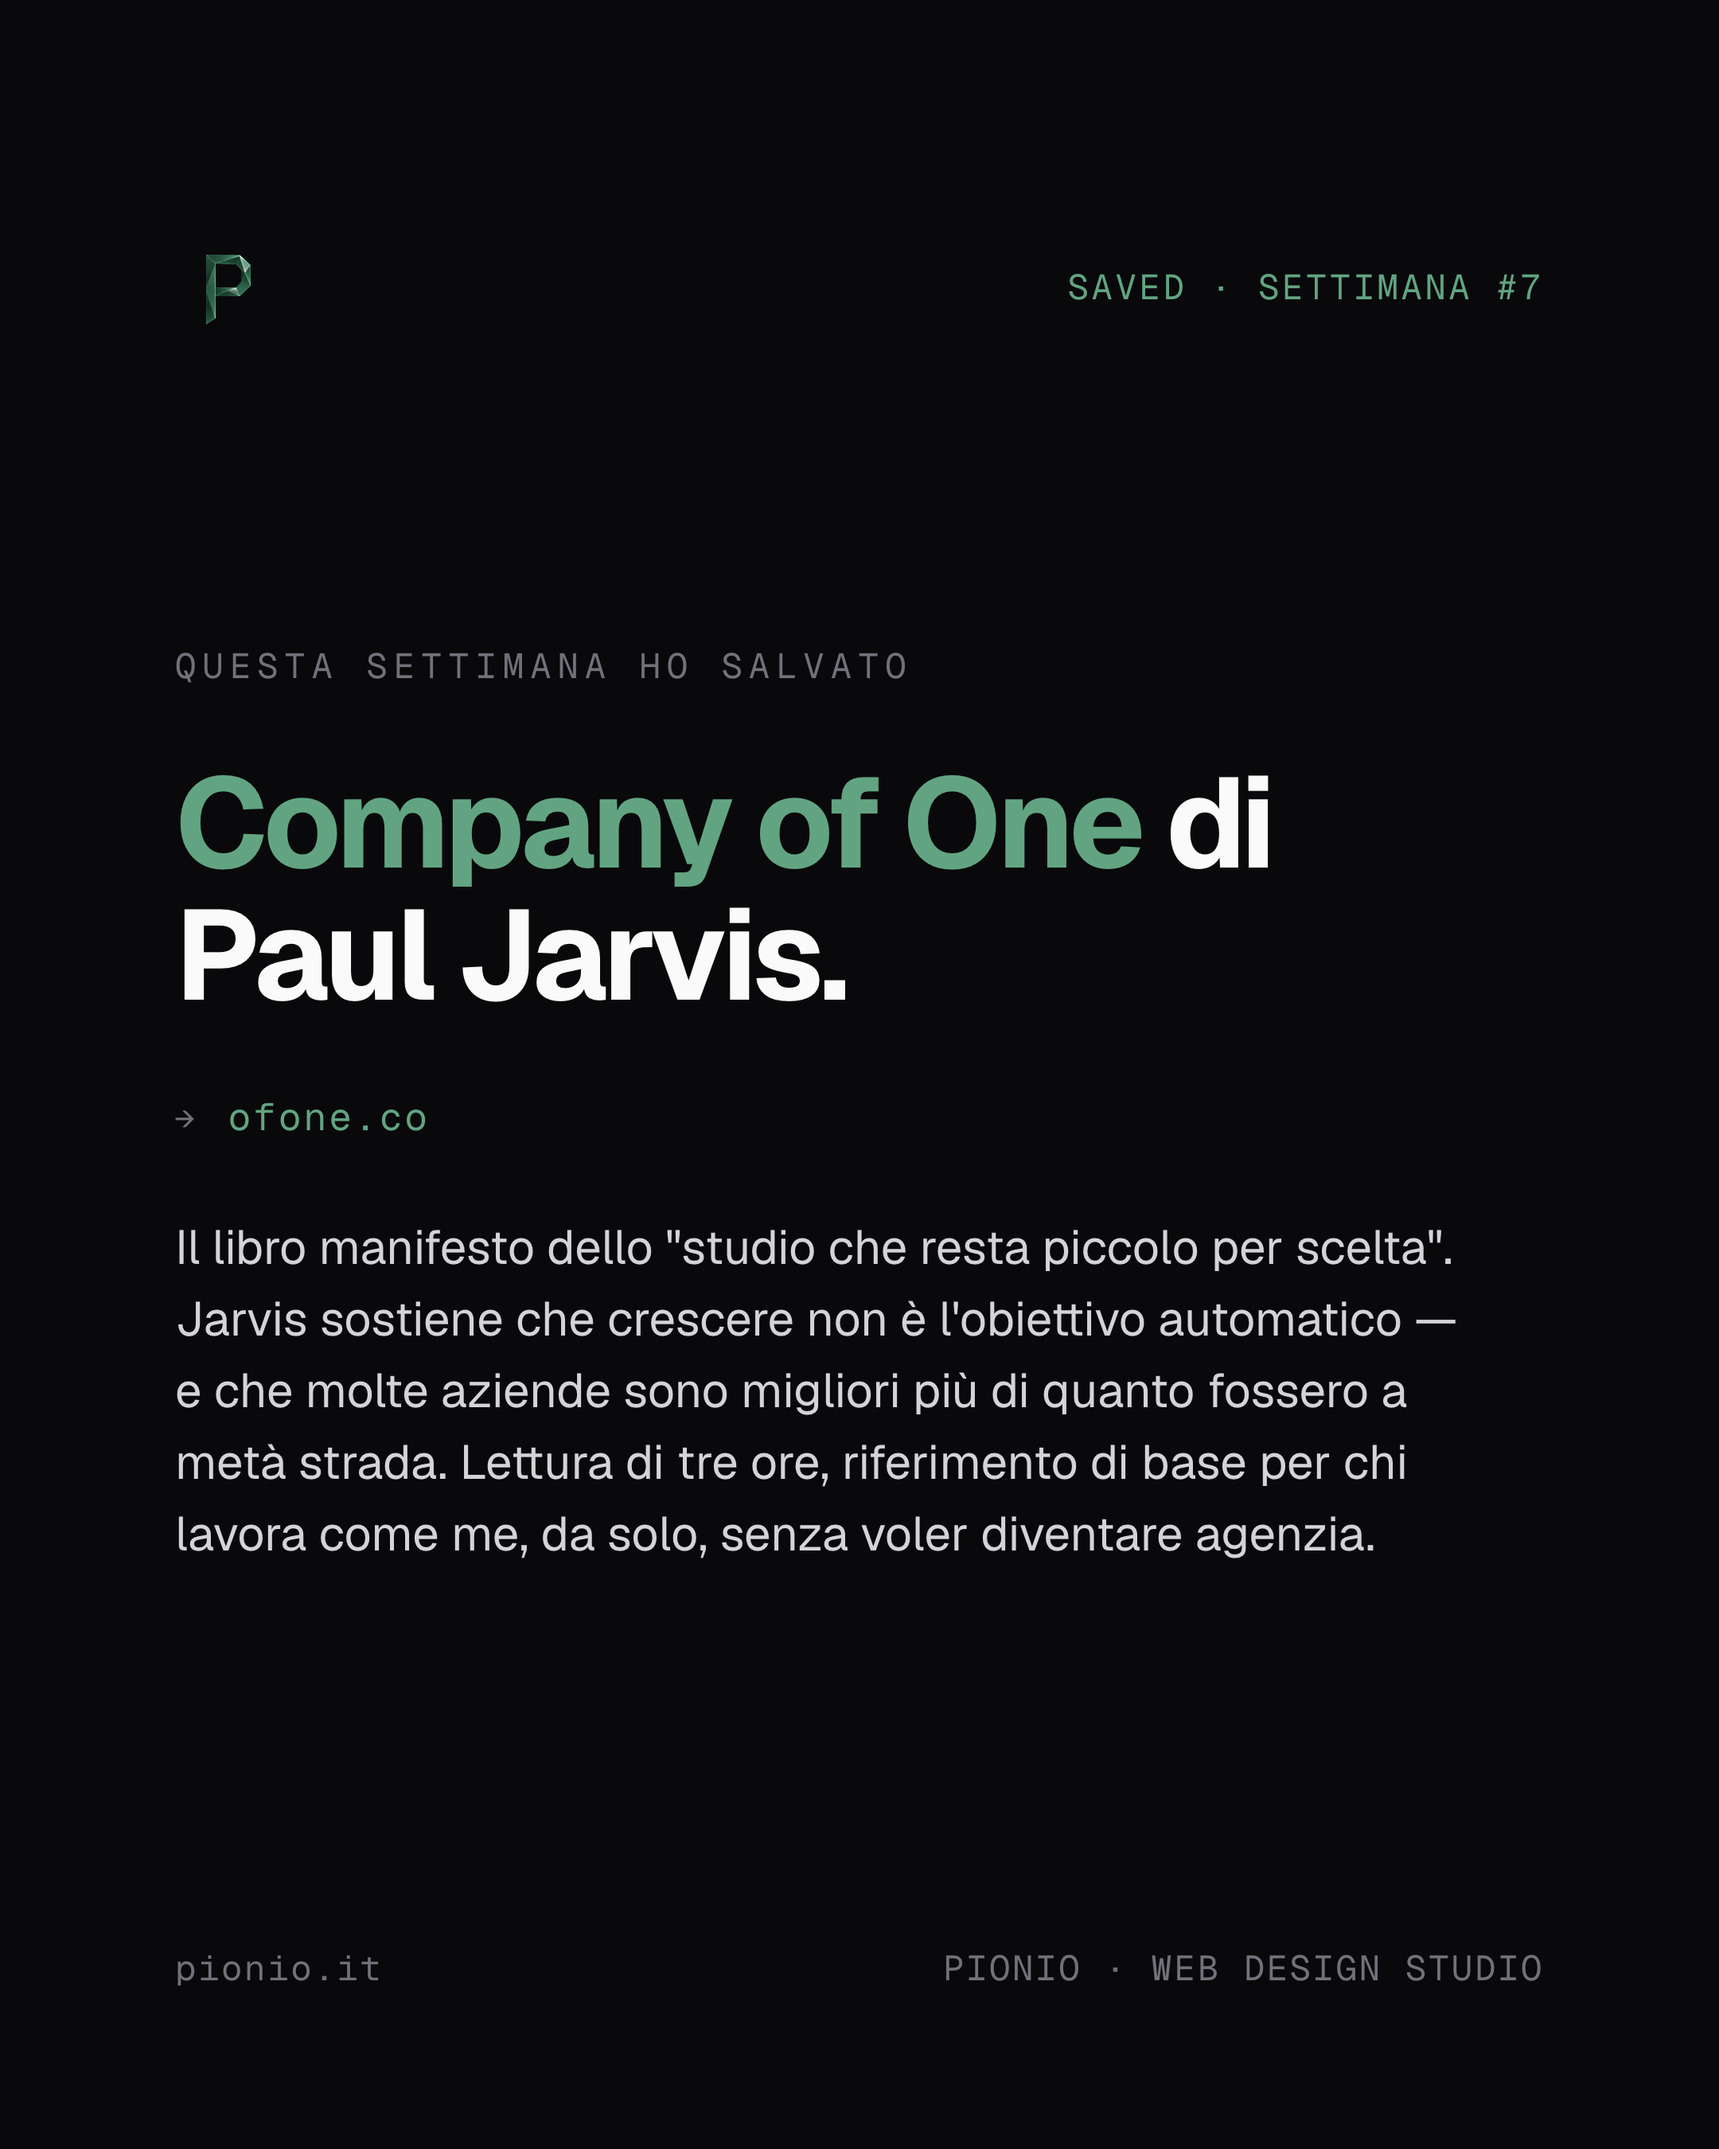
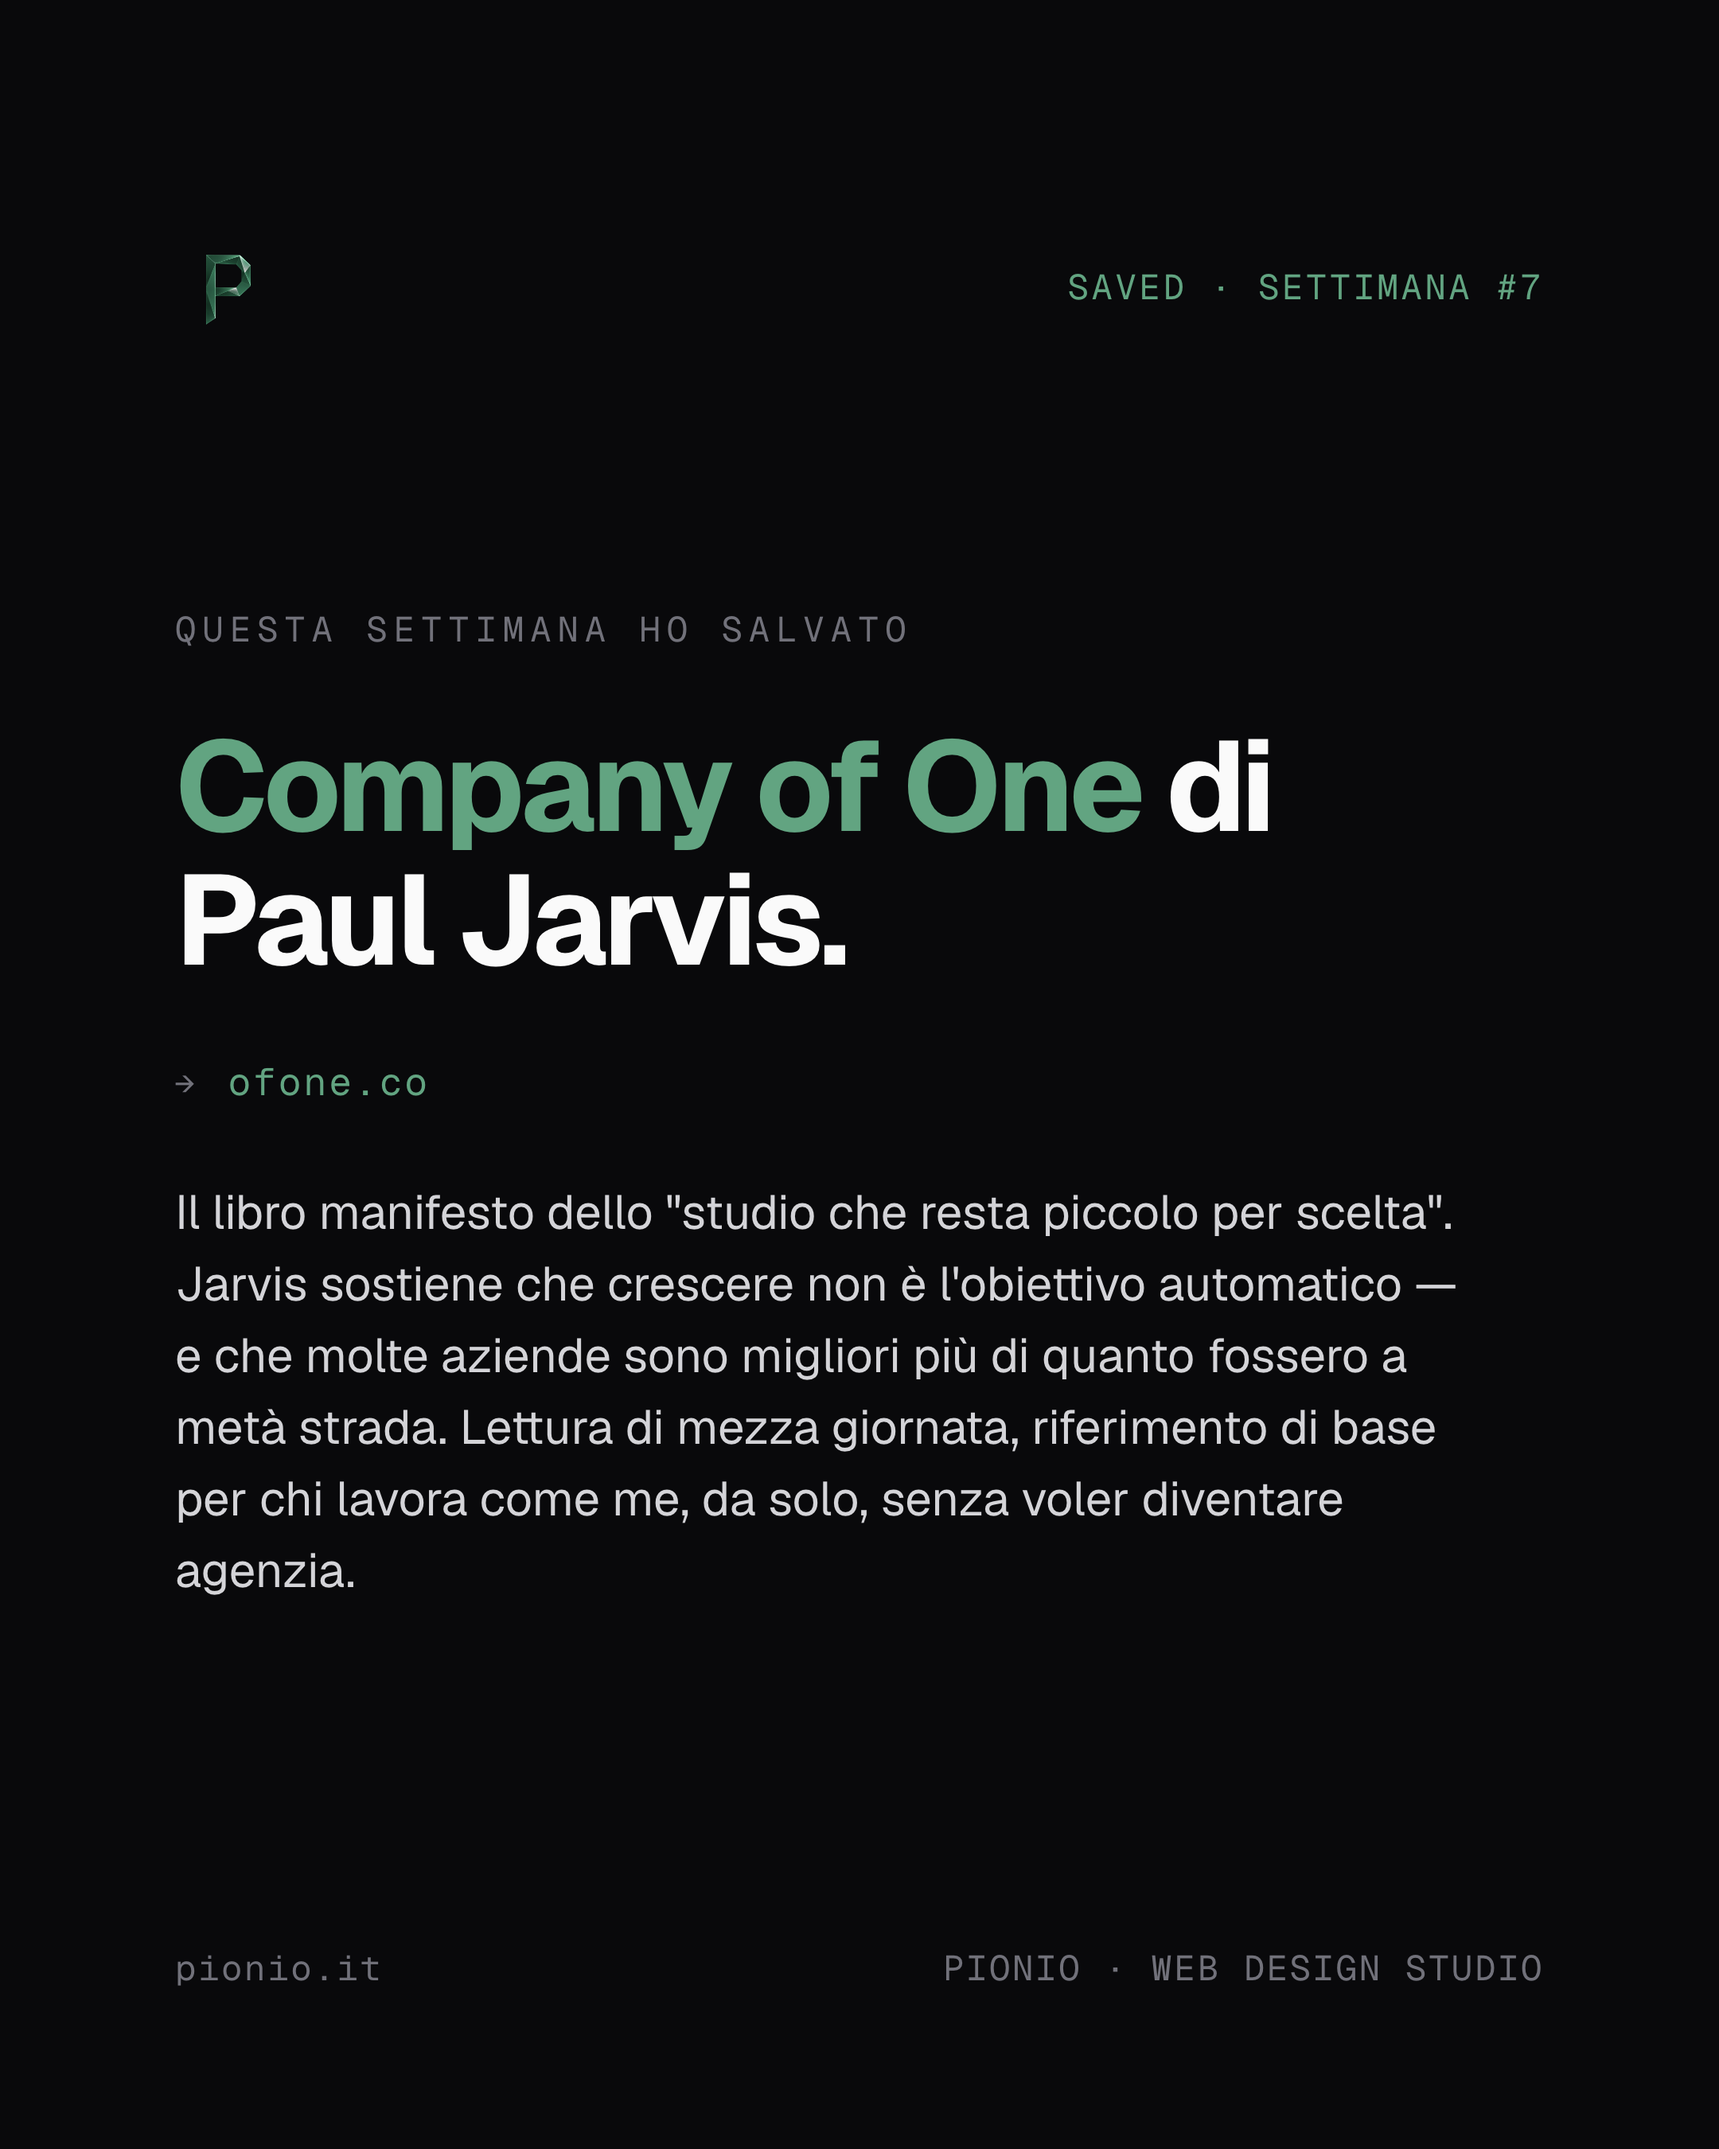
fix(instagram): fact-check Saved W7-W10 — URL, pagine, prezzi corretti
- W7 Company of One: 'Lettura di 3 ore' → 'mezza giornata' (224 pp)
- W8 Design is a Job: URL abookapart.com (morto) → designisajob.com
- W9 Mom Test: 'Ottantacinque pagine' → 'Centotrenta pagine'; tolto prezzo fisso
- W10 Refactoring UI: '$45' → '$99' (prezzo attuale Essentials)

diff --git a/instagram/content/settimana-09-lug-2026/6-sab-18-19-saved-mom-test/src/slides.html b/instagram/content/settimana-09-lug-2026/6-sab-18-19-saved-mom-test/src/slides.html
@@ -44,7 +44,7 @@
       <span class="url">momtestbook.com</span>
     </div>
     <p class="saved-body">
-      Ottantacinque pagine sul come fare le domande giuste a chi paga il tuo lavoro. Nato per startup founder, vale per chiunque debba intervistare un cliente — designer, freelance, consulenti. La tesi è semplice: la maggior parte delle domande di discovery non funziona perché chiede opinioni invece di fatti. Lettura di una serata.
+      Centotrenta pagine sul come fare le domande giuste a chi paga il tuo lavoro. Nato per startup founder, vale per chiunque debba intervistare un cliente — designer, freelance, consulenti. La tesi è semplice: la maggior parte delle domande di discovery non funziona perché chiede opinioni invece di fatti. Lettura di una serata.
     </p>
   </div>
   <div class="footer">

diff --git a/instagram/content/settimana-07-giu-2026/6-sab-4-19-saved-company-of-one/src/slides.html b/instagram/content/settimana-07-giu-2026/6-sab-4-19-saved-company-of-one/src/slides.html
@@ -44,7 +44,7 @@
       <span class="url">ofone.co</span>
     </div>
     <p class="saved-body">
-      Il libro manifesto dello "studio che resta piccolo per scelta". Jarvis sostiene che crescere non è l'obiettivo automatico — e che molte aziende sono migliori più di quanto fossero a metà strada. Lettura di tre ore, riferimento di base per chi lavora come me, da solo, senza voler diventare agenzia.
+      Il libro manifesto dello "studio che resta piccolo per scelta". Jarvis sostiene che crescere non è l'obiettivo automatico — e che molte aziende sono migliori più di quanto fossero a metà strada. Lettura di mezza giornata, riferimento di base per chi lavora come me, da solo, senza voler diventare agenzia.
     </p>
   </div>
   <div class="footer">

diff --git a/instagram/content/settimana-08-lug-2026/6-sab-11-19-saved-design-is-a-job/src/slides.html b/instagram/content/settimana-08-lug-2026/6-sab-11-19-saved-design-is-a-job/src/slides.html
@@ -41,7 +41,7 @@
     <h1 class="saved-title"><em>Design is a Job</em> di Mike Monteiro.</h1>
     <div class="saved-source">
       <span class="label">→</span>
-      <span class="url">abookapart.com/products/design-is-a-job</span>
+      <span class="url">designisajob.com</span>
     </div>
     <p class="saved-body">
       Centocinquanta pagine asciutte sul rapporto designer-cliente. Monteiro tratta brief, mood call, contratti, preventivi, conflitti — tutto quello che la scuola di design non insegna. Dal 2012 ma invecchiato bene. Riferimento di base se lavori col cliente, lettura di tre serate.
